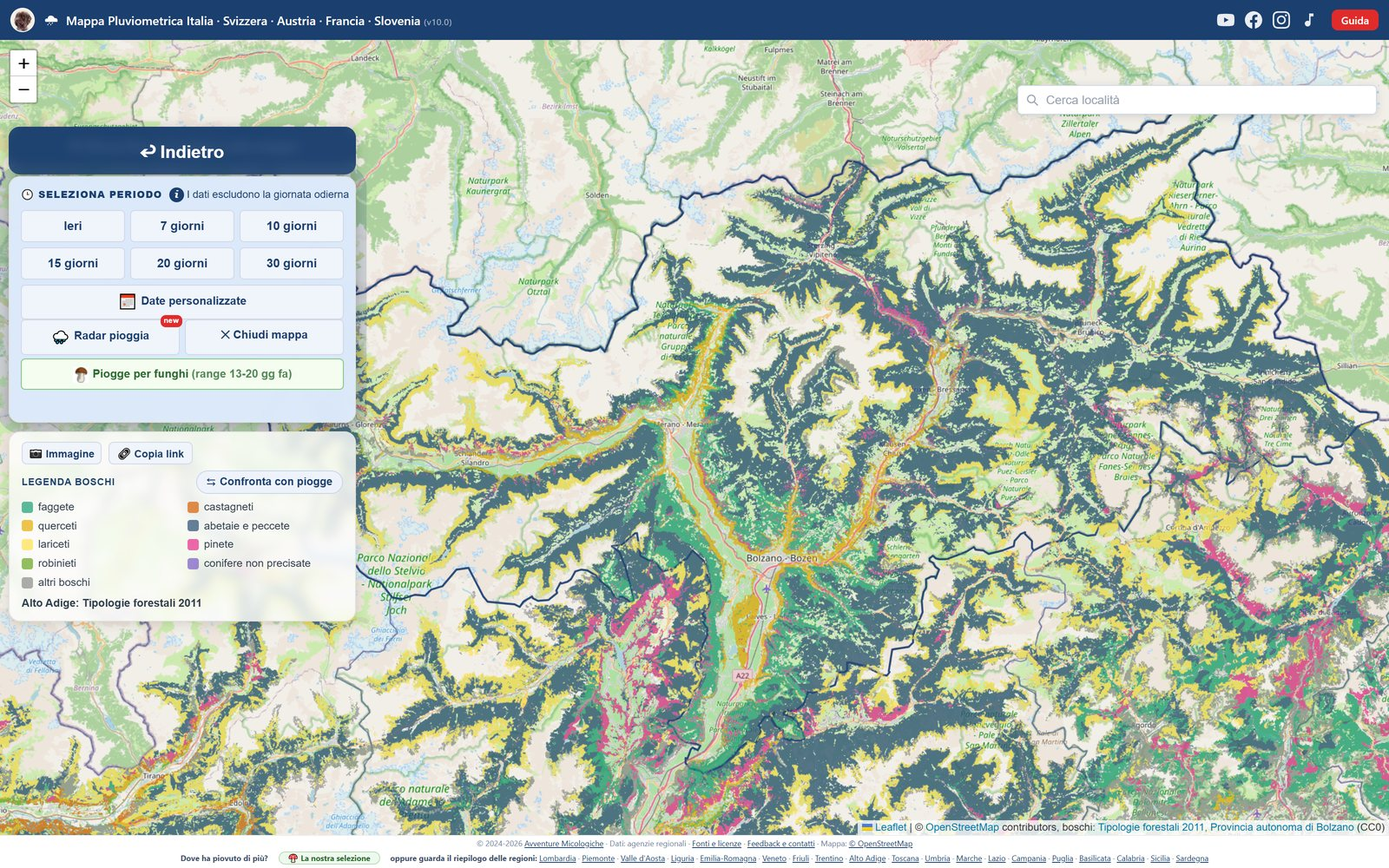
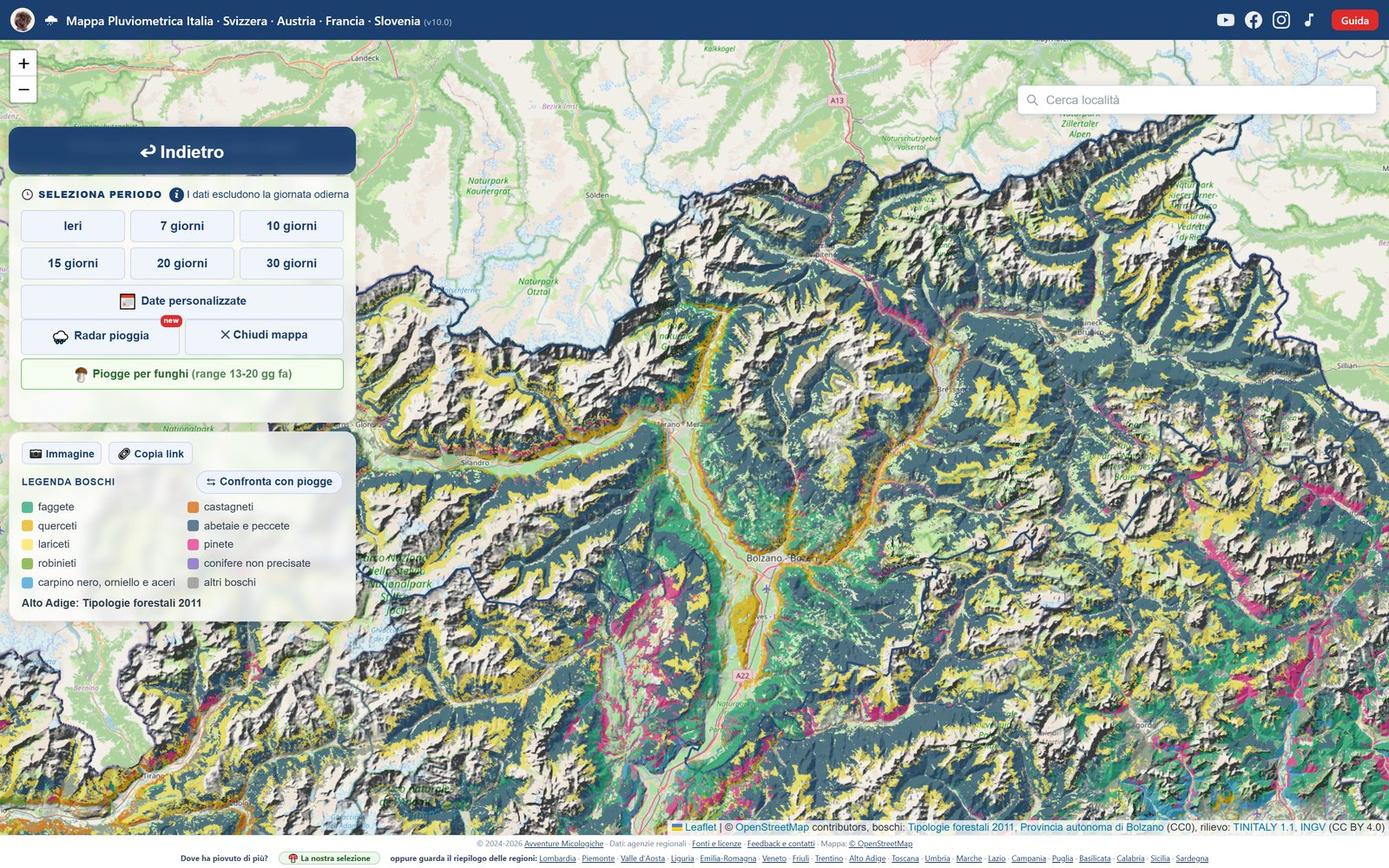
Mappa boschi: rilievo con la luce da nord-ovest, nuvoletta, guida e anteprime
- tessere del rilievo 4f1c4bea7 (luce da nord-ovest vera)
- nuvoletta sempre dentro lo schermo, riga Pendenza sopra il commento
- rilievo solo coi boschi, tagliato nella tendina; credito TINITALY
- guida: sezione boschi riscritta, immagini dopo il primo paragrafo,
  foto nuove (boschi, tendina, pioggia colorata, radar con pioggia)
- 21 anteprime boschi delle pagine funghi rifatte col rilievo

diff --git a/guida/index.html b/guida/index.html
@@ -259,7 +259,7 @@ td:first-child{font-weight:600;color:#2c3e54;white-space:nowrap}
   <div class="tit"><span class="tag">NOVITÀ</span><b>Ultimi aggiornamenti</b>
     <span class="quando">24 settembre 2026</span></div>
   <ul>
-    <li><span class="data">24 set</span><span><a href="#boschi">Il rilievo nella mappa boschi</a>: monti e valli in ombra sotto i colori, e toccando un punto leggi quota, versante e pendenza.</span></li>
+    <li><span class="data">24 set</span><span><a href="#boschi">Tocca un punto nella mappa boschi</a>: che bosco c'è, quota, versante e pendenza, e lo apri su Google Maps. E sotto i colori, il rilievo di monti e valli.</span></li>
     <li><span class="data">19 set</span><span><a href="#boschi">La mappa boschi in tutta Italia</a>: ventuno regioni, e un tocco su un punto ti dice che bosco è.</span></li>
     <li><span class="data">19 set</span><span><a href="#boschi">Confronta pioggia e boschi</a>: trascini la barra, a sinistra dove ha piovuto e a destra che bosco c'è.</span></li>
     <li><span class="data">18 set</span><span><a href="#boschi">La mappa boschi al Sud</a>: da oggi anche in Abruzzo, Puglia, Basilicata e Sicilia, tredici regioni in tutto.</span></li>
@@ -286,6 +286,12 @@ td:first-child{font-weight:600;color:#2c3e54;white-space:nowrap}
 
 <h2 id="cose"><span class="n">2</span>Che cosa mostra il sito</h2>
 <p>Questo sito mostra <b>la pioggia già caduta</b>, misurata da oltre 5.700 pluviometri delle reti pubbliche di monitoraggio in Italia, Svizzera, Austria, Francia e Slovenia. Non è un sito di previsioni: non troverai che tempo farà domani, ma quanti millimetri sono caduti in un punto preciso nei giorni scorsi.</p>
+
+<figure class="media">
+  <img src="pioggia-colorata.jpg" alt="La mappa della pioggia degli ultimi 30 giorni su Piemonte, Lombardia e Veneto: colori dal blu al rosso e i pallini bianchi dei pluviometri" width="1000" height="560" loading="lazy">
+  <figcaption>Piemonte, Lombardia e Veneto, la pioggia degli ultimi 30 giorni: dal blu dove ne è caduta poca al rosso dove ne è caduta di più. Ogni pallino bianco è un pluviometro.</figcaption>
+</figure>
+
 <p>Un pluviometro è uno strumento a terra, di un'agenzia regionale o nazionale, che raccoglie la pioggia e la misura. Ogni pallino sulla mappa è uno di questi strumenti, e il numero che compare toccandolo è <b>la sua misura</b>. Le fonti, agenzia per agenzia, sono elencate in <a href="/fonti.html">Fonti e licenze</a>.</p>
 <p>Il sito è gratuito, senza pubblicità e senza registrazione.</p>
 
@@ -388,6 +394,11 @@ td:first-child{font-weight:600;color:#2c3e54;white-space:nowrap}
      temporale del 10 settembre, scattata a doppia densita' come le altre. -->
 <h3>⏱ L'intensità: in quante ore</h3>
 <p>Cinquanta millimetri in un pomeriggio e cinquanta distribuiti su sei giorni sono due storie diverse, e per il terreno la seconda è molto migliore. Dal 10 settembre 2026, per ogni giornata di pioggia, contiamo <b>le ore in cui ha piovuto</b> e <b>la punta caduta in un'ora</b>. Dividendo i millimetri per le ore si ottiene il ritmo, e lo traduciamo in una parola.</p>
+
+<figure class="stretta">
+  <img src="intensita.jpg" alt="La scheda del pluviometro di Platischis su sette giorni: sotto il grafico, 10 settembre, 143,7 mm in 19 ore, punta 30,3 mm in un'ora" width="592" height="726" loading="lazy">
+  <figcaption>Platischis, in Friuli: il 10 settembre 143,7 mm in 19 ore, con una punta di 30,3 mm in un'ora. La barra col bordo bianco è il giorno raccontato.</figcaption>
+</figure>
 <table>
 <thead><tr><th>Millimetri all'ora</th><th>Come la chiamiamo</th><th>Nel bosco</th></tr></thead>
 <tbody>
@@ -398,21 +409,12 @@ td:first-child{font-weight:600;color:#2c3e54;white-space:nowrap}
 </table>
 <p>Le due soglie sono quelle della convenzione meteorologica italiana.</p>
 <p><b>Dove la trovi.</b> Nella scheda del pluviometro, sotto il grafico della pioggia, c'è il giorno più piovoso del periodo con le sue ore e la sua punta. Tocca un'altra barra e la riga passa a quel giorno. Col periodo <span class="ui">Ieri</span> durata e punta stanno direttamente fra le righe in alto.</p>
-<figure class="stretta">
-  <img src="intensita.jpg" alt="La scheda del pluviometro di Platischis su sette giorni: sotto il grafico, 10 settembre, 143,7 mm in 19 ore, punta 30,3 mm in un'ora" width="592" height="726" loading="lazy">
-  <figcaption>Platischis, in Friuli: il 10 settembre 143,7 mm in 19 ore, con una punta di 30,3 mm in un'ora. La barra col bordo bianco è il giorno raccontato.</figcaption>
-</figure>
+
 <p>Le stesse due informazioni ci sono sotto il grafico delle <a href="/funghi/">pagine di paese</a>, e lì la giornata di pioggia più forte ha anche la parola: «Sono caduti in 19 ore, con una punta di 30,3 mm in un'ora: 7,6 mm all'ora, pioggia battente».</p>
 <p class="mini">Le ore le pubblicano Piemonte, Liguria, Lombardia, Friuli, le reti del centro-sud, Svizzera, Austria, Francia e Slovenia. Toscana, Emilia, Veneto, Trentino e Alto Adige danno solo il totale del giorno: lì la riga non compare.</p>
 
 <h3>🌡 La temperatura, minima e massima</h3>
 <p>È il secondo interruttore dopo la pioggia. Dopo una pioggia buona, quello che decide se e quando nasce qualcosa sono le notti: <b>minime che restano sopra i 10 gradi</b> tengono il bosco in moto, minime vicine allo zero lo fermano. In quota la stessa pioggia di agosto e quella di ottobre danno esiti diversi solo per questo. Il grafico della scheda mostra minima e massima giorno per giorno, e serve proprio a guardare l'andamento delle notti nei giorni dopo la pioggia.</p>
-
-<h3>💨 Il vento</h3>
-<p>Il vento asciuga. Una giornata ventosa dopo la pioggia toglie umidità alla lettiera molto più in fretta di una giornata ferma, e su un versante esposto la finestra utile si accorcia. Nel grafico c'è la <b>velocità media</b> del giorno, e nel dettaglio di ogni giornata anche la raffica. È anche il modo per riconoscere i giorni di burrasca in una serie.</p>
-
-<h3>💦 L'umidità dell'aria</h3>
-<p>Dice quanto il bosco sta restituendo l'acqua che ha preso. Dopo una pioggia, <b>giorni con umidità alta</b>, specie di notte, vogliono dire terreno che resta umido; aria secca e vento insieme sono la combinazione che asciuga tutto in due giorni. È l'umidità dell'aria misurata dalla stazione, non quella del terreno: quella nelle reti pubbliche non esiste, esistono solo modelli, e i modelli qui non li usiamo.</p>
 
 <figure class="tre">
   <div><img src="temperatura.jpg" alt="Il grafico della temperatura minima e massima, giorno per giorno" width="592" height="684" loading="lazy"><span>🌡 Temperatura</span></div>
@@ -421,6 +423,13 @@ td:first-child{font-weight:600;color:#2c3e54;white-space:nowrap}
   <figcaption>Le altre tre linguette dello stesso pluviometro, sugli stessi giorni. La temperatura ha due linee, massima e minima. Il vento ha la media giornaliera. L'umidità ha la massima, che è quasi sempre di notte, e la minima del pomeriggio.</figcaption>
 </figure>
 
+<h3>💨 Il vento</h3>
+<p>Il vento asciuga. Una giornata ventosa dopo la pioggia toglie umidità alla lettiera molto più in fretta di una giornata ferma, e su un versante esposto la finestra utile si accorcia. Nel grafico c'è la <b>velocità media</b> del giorno, e nel dettaglio di ogni giornata anche la raffica. È anche il modo per riconoscere i giorni di burrasca in una serie.</p>
+
+<h3>💦 L'umidità dell'aria</h3>
+<p>Dice quanto il bosco sta restituendo l'acqua che ha preso. Dopo una pioggia, <b>giorni con umidità alta</b>, specie di notte, vogliono dire terreno che resta umido; aria secca e vento insieme sono la combinazione che asciuga tutto in due giorni. È l'umidità dell'aria misurata dalla stazione, non quella del terreno: quella nelle reti pubbliche non esiste, esistono solo modelli, e i modelli qui non li usiamo.</p>
+
+
 <h3>⛰ La quota</h3>
 <p>Compare nella scheda perché cambia tutto il resto: la stessa perturbazione lascia numeri diversi a trecento e a milleduecento metri, e la temperatura scende con l'altezza. Quando il pluviometro più vicino al tuo bosco sta molto più in basso, i suoi millimetri sono di solito una <b>sottostima</b> di quello che ha preso il versante. Dove l'ente non dichiara la quota la deduciamo dalla posizione, e in quel caso il numero ha davanti una tilde, per esempio «~ 1.240 m slm».</p>
 
@@ -428,6 +437,11 @@ td:first-child{font-weight:600;color:#2c3e54;white-space:nowrap}
 
 <h3 id="scheda-paese">Che cosa trovi nella scheda del paese</h3>
 <p>È una pagina dedicata a quel pluviometro e al paese intorno, fatta per rispondere senza dover toccare niente. Dentro c'è:</p>
+
+<figure>
+  <img src="scheda-paese.jpg" alt="La parte alta di una pagina di paese: titolo, millimetri della finestra dei funghi e grafico degli ultimi venticinque giorni" width="1100" height="1132" loading="lazy">
+  <figcaption>La parte alta della scheda di Torriglia Garaventa. Sotto continua col ritratto dell'archivio e coi link ai posti vicini.</figcaption>
+</figure>
 <ul>
   <li><b>quanta acqua è caduta nella finestra dei funghi</b>, col numero grande e le due date esatte, più quando è caduta l'ultima pioggia forte;</li>
   <li><b>il grafico degli ultimi venticinque giorni</b>, con gli otto giorni della finestra in scuro e gli altri in chiaro: si vede a colpo d'occhio se la pioggia è arrivata al momento giusto o troppo tardi;</li>
@@ -438,59 +452,65 @@ td:first-child{font-weight:600;color:#2c3e54;white-space:nowrap}
   <li>i link <b>alla zona</b> che lo contiene e a tutte le altre località della regione.</li>
 </ul>
 
-<figure>
-  <img src="scheda-paese.jpg" alt="La parte alta di una pagina di paese: titolo, millimetri della finestra dei funghi e grafico degli ultimi venticinque giorni" width="1100" height="1132" loading="lazy">
-  <figcaption>La parte alta della scheda di Torriglia Garaventa. Sotto continua col ritratto dell'archivio e coi link ai posti vicini.</figcaption>
-</figure>
 
 <h2 id="radar"><span class="n">10</span>La diretta radar</h2>
 <p>Il tasto <span class="ui">Radar pioggia</span> cambia modo: la sfumatura dei cumulati si spegne, i pallini spariscono, restano i confini e compare <b>la pioggia in corso adesso</b>. Tre tasti e una linea del tempo: <span class="ui">Adesso</span>, <span class="ui">▶ -2 ore</span> per rivedere da dove è arrivata, <span class="ui">+40 min</span> per i quaranta minuti seguenti. Si esce col tasto, o semplicemente scegliendo un periodo.</p>
 
 <figure class="media">
-  <img src="radar.jpg" alt="Il pannello della diretta radar con i tasti Adesso, meno due ore e più quaranta minuti e la scala in millimetri all'ora" width="893" height="538" loading="lazy">
-  <figcaption>Il pannello del radar: i tre tasti, la scala in millimetri all'ora e l'ora dell'ultima immagine. In questo scatto, una sera di settembre, non stava piovendo.</figcaption>
+  <img src="radar.jpg" alt="La diretta radar: un fronte di pioggia sulle Alpi, forte in Tirolo e verso Salisburgo, più debole sull'Alto Adige e sul Friuli, col pannello dei tasti Adesso, meno due ore e più quaranta minuti" width="893" height="538" loading="lazy">
+  <figcaption>Un fronte sulle Alpi, il 24 settembre alle 18:30: giallo e arancio dove piove forte, in Tirolo e verso Salisburgo, azzurro sull'Alto Adige e sul Friuli. A sinistra i tre tasti e la scala in millimetri all'ora.</figcaption>
 </figure>
 
-<p>Due avvertenze oneste. La previsione a quaranta minuti <b>è una previsione</b>, dichiarata come tale, e non una misura. E il radar vede la pioggia dall'alto con una risoluzione di due chilometri: dice bene <i>dove</i> sta piovendo, mentre <i>quanto</i> è caduto resta il mestiere dei pluviometri, che restano la fonte di tutto il resto del sito.</p>
+<p>Il radar vede la pioggia dall'alto, a due chilometri di risoluzione: ti dice <i>dove</i> sta piovendo adesso e dove andrà nei prossimi quaranta minuti. <i>Quanto</i> è caduto lo misurano i pluviometri, come in tutto il resto del sito.</p>
 <p class="mini">La fonte è il composito radar europeo EUMETNET OPERA, 155 radar in 24 paesi, servito dal progetto aperto LibreWXR.</p>
 
 <h2 id="boschi"><span class="n">11</span>La mappa boschi</h2>
 <p>La pioggia dice <i>quando</i> andare, il bosco dice <i>dove</i>: faggete, castagneti, querceti e abetaie non danno gli stessi funghi. Il tasto <span class="ui">🌲 Mappa boschi</span>, accanto a quello del radar, cambia modo: la pioggia e i pallini spariscono, e <b>i boschi si colorano per tipo</b>, in dieci gruppi, sopra il rilievo di monti e valli.</p>
 
-<div class="bosco"><b>Vale solo per alcune regioni.</b> Per ora la mappa boschi c'è in ventuno: <b>Piemonte, Valle d'Aosta, Lombardia, Trentino, Alto Adige, Veneto, Friuli Venezia Giulia, Liguria, Emilia-Romagna, Lazio, Abruzzo, Puglia, Basilicata, Sicilia, Marche, Umbria, Molise, Campania, Calabria, Toscana e Sardegna</b>. In Basilicata la carta è meno dettagliata: si vedono le macchie di bosco, non il singolo bosco. In Marche, Umbria, Molise, Campania, Calabria, Toscana e Sardegna la fonte non è una carta forestale della Regione ma la <b>Carta della Natura di ISPRA</b>, che descrive gli habitat: i tipi di bosco ci sono tutti, raccolti negli stessi colori. In Toscana e Sardegna quella carta è a scala 1:50.000, quindi meno fine; se la Regione pubblicherà una carta forestale più dettagliata, la useremo. Nelle altre regioni, e all'estero, i colori non ci sono e la legenda lo dice: «carta non ancora disponibile». Non riempiamo i vuoti con carte approssimative: una regione entra quando c'è una carta dei tipi di bosco abbastanza precisa.</div>
-
 <figure class="media">
   <img src="boschi.jpg" alt="La mappa boschi in Val d'Aveto, fra Liguria ed Emilia: faggete in verde, castagneti in arancio, querceti in ocra sopra il rilievo, col pannello della legenda" width="1000" height="702" loading="lazy">
-  <figcaption>La Val d'Aveto, a cavallo fra Liguria ed Emilia: faggete in verde, castagneti in arancio, querceti in ocra, e sotto i colori il rilievo delle valli. Sotto la legenda, le due carte usate. Al confine fra le due regioni le carte si uniscono senza stacchi.</figcaption>
+  <figcaption>La Val d'Aveto, a cavallo fra Liguria ed Emilia: faggete in verde, castagneti in arancio, querceti in ocra, e sotto i colori il rilievo delle valli. Sotto la legenda, le due carte usate.</figcaption>
 </figure>
 
-<h3>Come si usa</h3>
-<p>Scegli la regione e tocca il tasto: la mappa inquadra la regione. <b>Se prima hai cercato un paese, si apre sul paese</b>, abbastanza vicina da leggere i versanti. Da lontano i boschi sono una macchia unica: ingrandisci sulla valle che ti interessa. Si esce col tasto stesso, che nel frattempo è diventato <span class="ui">✕ Chiudi mappa</span>, con <span class="ui">↩ Indietro</span>, oppure scegliendo un periodo.</p>
-<p>Anche le pagine di paese e di zona delle regioni coperte hanno il tasto <span class="ui">Guarda i boschi</span>, che apre la mappa boschi già centrata su quel posto.</p>
+<div class="bosco"><b>Dove c'è.</b> La mappa boschi copre ventuno regioni: <b>Piemonte, Valle d'Aosta, Lombardia, Trentino, Alto Adige, Veneto, Friuli Venezia Giulia, Liguria, Emilia-Romagna, Lazio, Abruzzo, Puglia, Basilicata, Sicilia, Marche, Umbria, Molise, Campania, Calabria, Toscana e Sardegna</b>. Le carte usate, regione per regione, sono in <a href="/fonti.html">Fonti e licenze</a>.</div>
 
-<figure class="stretta">
-  <img src="boschi-telefono.jpg" alt="La mappa boschi dal telefono intorno a Borzonasca, col segnaposto rosso, il rilievo sotto i colori e sotto la legenda dei dieci gruppi" width="786" height="1404" loading="lazy">
-  <figcaption>Dal telefono, intorno a Borzonasca: castagneti in arancio sui versanti, faggete in verde più in là, e il rilievo che fa leggere le valli. Sotto la legenda e il nome della carta.</figcaption>
-</figure>
-
-<h3>Toccando un punto</h3>
-<p>Tocca un punto qualsiasi della mappa: si apre una nuvoletta che ti dice <b>che bosco c'è</b> e tre cose sul terreno.</p>
-<ul>
-  <li><b>Quota</b>: i metri sul livello del mare di quel punto.</li>
-  <li><b>Versante</b>: da che parte guarda il pendio, in otto direzioni, per esempio «a sud-est». Sotto, una riga dice cosa vuol dire per l'umidità: un versante a nord tiene l'umido, uno a sud prende il sole e asciuga prima.</li>
-  <li><b>Pendenza</b>: quanto è ripido, in gradi. 0° è il piano; sotto i 6° la nuvoletta scrive «pianeggiante».</li>
-</ul>
-<p>Versante e pendenza non sono quelli del punto esatto sotto il dito, che può cadere su un masso o in una buca: sono quelli del fianco della valle intorno, misurati su 250 metri per parte. Per chi cerca funghi conta quello.</p>
-<p>In fondo c'è il tasto <span class="ui">Apri su Google Maps</span>: apre quel punto su Google Maps, dove puoi salvarlo, guardarlo dal satellite o farti portare. La strada non te la diamo noi: il punto che hai toccato può essere un dirupo, e come arrivarci lo decidi tu.</p>
+<h3>Tocca un punto: bosco, quota, versante, pendenza</h3>
+<p>Tocca un punto qualsiasi della mappa: si apre una nuvoletta con tutto quello che serve per decidere se quel posto vale il giro.</p>
 
 <figure class="stretta">
   <img src="boschi-nuvoletta.jpg" alt="La nuvoletta aperta toccando un castagneto vicino a Borzonasca: quota 208 metri, versante a sud-est, pendenza 28 gradi, sole del mattino, e il tasto Apri su Google Maps" width="786" height="744" loading="lazy">
   <figcaption>Un tocco su un castagneto vicino a Borzonasca: 208 metri, versante a sud-est con 28° di pendenza, cioè sole del mattino e terreno che asciuga. Sotto, il tasto per aprire il punto su Google Maps.</figcaption>
 </figure>
+<div class="bosco">
+<p><b>Che bosco c'è</b>: faggeta, castagneto, abetaia, col colore della legenda.</p>
+<p><b>Quota</b>: i metri sul livello del mare.</p>
+<p><b>Versante</b>: da che parte guarda il pendio, per esempio «a sud-est», e sotto cosa vuol dire: un versante a nord tiene l'umido, uno a sud prende il sole e asciuga prima.</p>
+<p><b>Pendenza</b>: quanto è ripido, in gradi; sotto i 6° la nuvoletta scrive «pianeggiante».</p>
+<p><b>Apri su Google Maps</b>: il punto su Google Maps, da salvare, guardare dal satellite o per farti portare.</p>
+</div>
+<p>Versante e pendenza sono quelli del fianco della valle intorno al punto, misurati su 250 metri per parte.</p>
+
+
+<h3>Come si usa</h3>
+<p>Scegli la regione e tocca il tasto: la mappa inquadra la regione. <b>Se prima hai cercato un paese, si apre sul paese</b>, abbastanza vicina da leggere i versanti. Da lontano i boschi sono una macchia unica: ingrandisci sulla valle che ti interessa. Si esce col tasto stesso, che nel frattempo è diventato <span class="ui">✕ Chiudi mappa</span>, con <span class="ui">↩ Indietro</span>, oppure scegliendo un periodo.</p>
+
+<figure class="stretta">
+  <img src="boschi-telefono.jpg" alt="La mappa boschi dal telefono intorno a Borzonasca, col segnaposto rosso, il rilievo sotto i colori e sotto la legenda dei dieci gruppi" width="786" height="1404" loading="lazy">
+  <figcaption>Dal telefono, intorno a Borzonasca: castagneti in arancio sui versanti, faggete in verde più in là, e il rilievo che fa leggere le valli. Sotto la legenda e il nome della carta.</figcaption>
+</figure>
+<p>Anche le pagine di paese e di zona delle regioni coperte hanno il tasto <span class="ui">Guarda i boschi</span>, che apre la mappa boschi già centrata su quel posto.</p>
+
+
 
 <h3>Confrontare pioggia e boschi</h3>
 <p>Con un periodo di pioggia già scelto, tocca <span class="ui">⇆ Confronta con piogge</span>: compare una barra da trascinare. A sinistra vedi dove ha piovuto, a destra che bosco c'è, e muovendo la barra li confronti sullo stesso posto.</p>
 
+<figure class="media">
+  <img src="boschi-tendina.jpg" alt="La barra del confronto: a sinistra la pioggia degli ultimi 30 giorni fra Liguria ed Emilia, a destra i boschi col rilievo intorno a Borgo Val di Taro" width="1000" height="640" loading="lazy">
+  <figcaption>Fra Liguria ed Emilia: a sinistra la pioggia degli ultimi 30 giorni, a destra i boschi intorno a Borgo Val di Taro. Trascinando la barra si passa dall'una agli altri.</figcaption>
+</figure>
+
+<h3>I colori</h3>
 <table>
 <thead><tr><th>Colore</th><th>Che cosa mette insieme</th></tr></thead>
 <tbody>
@@ -508,12 +528,7 @@ td:first-child{font-weight:600;color:#2c3e54;white-space:nowrap}
 </table>
 
 <h3>Il rilievo</h3>
-<p>Sotto i colori c'è il rilievo: le ombre dei monti, come se il sole arrivasse da nord-ovest. Viene da <b>TINITALY</b>, il modello del terreno d'Italia a 10 metri dell'INGV, lo stesso da cui ricaviamo quota, versante e pendenza. Da lontano le montagne sono un po' esagerate, apposta: senza, a quella distanza le ombre sparirebbero. Il rilievo c'è solo in Italia, perché il modello finisce al confine.</p>
-<p>Sulla mappa della pioggia invece non c'è, e non è una svista: le ombre sotto i colori della pioggia li farebbero sembrare più scuri, cioè più millimetri di quelli caduti davvero.</p>
-
-<h3>Quanto è precisa</h3>
-<p>I disegni sono quelli delle <b>carte forestali delle Regioni</b>, fatte sulle foto aeree con un dettaglio che arriva al singolo versante. Ogni Regione però usa le sue categorie, che abbiamo raggruppato noi nei dieci colori. Un colore dice un albero: «pinete» sono solo i boschi di pini, «abetaie e peccete» solo quelli di abeti e pecci. Dove la carta dice soltanto «conifere», senza la specie, il bosco va in «conifere non precisate»: sappiamo che sono conifere, non se sono abeti o pini, e non tiriamo a indovinare. Fanno eccezione le <b>riserve naturali biogenetiche dello Stato</b> nate per una specie, come Abetone, Vallombrosa e Camaldoli per l'abete bianco o Trenta Coste in Sila per il pino laricio: lì dentro usiamo la specie della riserva. E se conosci un bosco che sulla mappa ha il colore sbagliato, <a href="/fonti.html#feedback">scrivicelo</a>: le carte le correggiamo man mano, anche grazie alle vostre segnalazioni. Le carte poi non hanno tutte la stessa età: si va da quella del Veneto, aggiornata al 2005, a quella della Liguria, del 2025. Quale carta stai guardando lo dice la riga sotto la legenda, e l'elenco completo, con le licenze, sta in <a href="/fonti.html">Fonti e licenze</a>.</p>
-<p>Due avvertenze oneste. Il bosco della carta è quello di quando la carta è stata fatta: un taglio o un incendio recenti non ci sono. E la carta dice <b>che bosco c'è, non se ci sono i funghi</b>: per quello servono la pioggia al momento giusto, la temperatura e un giro a piedi.</p>
+<p>Sotto i colori c'è il rilievo: le ombre dei monti, come se il sole arrivasse da nord-ovest. Viene da <b>TINITALY</b>, il modello del terreno d'Italia a 10 metri dell'INGV, lo stesso da cui ricaviamo quota, versante e pendenza.</p>
 
 <h2 id="condividere"><span class="n">12</span>Condividere</h2>
 <p>In alto nel pannello della legenda ci sono due tasti. Da computer si chiamano <span class="ui">🔗 Copia link</span> e <span class="ui">📷 Immagine</span>, dal telefono <span class="ui">🔗 Invia link</span> e <span class="ui">📷 Invia foto</span>, perché lì passano dal menu di condivisione.</p>

diff --git a/fonti.html b/fonti.html
@@ -109,7 +109,7 @@ td a:hover{text-decoration:underline}
 <tr><td>Cartografia di base</td><td><a href="https://www.openstreetmap.org/copyright" target="_blank" rel="noopener">© OpenStreetMap contributors</a></td><td>ODbL</td></tr>
 <tr><td>Confini regionali</td><td><a href="https://github.com/openpolis/geojson-italy" target="_blank" rel="noopener">openpolis / geojson-italy</a> (da dati ISTAT)</td><td>dati aperti</td></tr>
 <tr><td>Confine del Ticino</td><td><a href="https://www.swisstopo.admin.ch" target="_blank" rel="noopener">swisstopo — swissBOUNDARIES3D</a></td><td>open government data</td></tr>
-<tr><td>Rilievo, quota, versante e pendenza</td><td><a href="https://doi.org/10.13127/tinitaly/1.1" target="_blank" rel="noopener">TINITALY 1.1</a>, modello altimetrico d'Italia a 10 metri: Tarquini S., Isola I., Favalli M., Battistini A., Dotta G. (2023), Istituto Nazionale di Geofisica e Vulcanologia (INGV)</td><td>CC BY 4.0. Serve alla «Mappa boschi»: l'ombreggiatura del rilievo e, toccando un punto, quota, versante e pendenza. Copre solo l'Italia; il rilievo è ricavato da noi dal modello, e ai livelli di zoom più lontani le quote sono esagerate perché si legga</td></tr>
+<tr><td>Rilievo, quota, versante e pendenza</td><td><a href="https://doi.org/10.13127/tinitaly/1.1" target="_blank" rel="noopener">TINITALY 1.1</a>, modello altimetrico d'Italia a 10 metri: Tarquini S., Isola I., Favalli M., Battistini A., Dotta G. (2023), Istituto Nazionale di Geofisica e Vulcanologia (INGV)</td><td>CC BY 4.0. Serve alla «Mappa boschi»: il rilievo e, toccando un punto, quota, versante e pendenza</td></tr>
 <tr><td>Libreria mappa</td><td><a href="https://leafletjs.com" target="_blank" rel="noopener">Leaflet</a></td><td>BSD-2</td></tr>
 <tr><td>Radar «Diretta radar»</td><td><a href="https://librewxr.net/" target="_blank" rel="noopener">LibreWXR</a>, che serve il composito radar europeo <a href="https://www.eumetnet.eu/" target="_blank" rel="noopener">EUMETNET OPERA</a> (155 radar, 24 paesi)</td><td>CC BY 4.0. Alimenta il tasto «Diretta radar»: la pioggia in corso, le ultime due ore e i quaranta minuti seguenti. È una misura radar a 2 km di risoluzione, quindi <b>non sostituisce i pluviometri</b>, che restano la fonte di tutto il resto del sito; la previsione a 40 minuti è dichiarata come tale e non è una misura</td></tr>
 <tr><td>Ricerca per località</td><td><a href="https://open-meteo.com/en/docs/geocoding-api" target="_blank" rel="noopener">Open-Meteo Geocoding API</a>, che pubblica i nomi di <a href="https://www.geonames.org/" target="_blank" rel="noopener">GeoNames</a></td><td>CC BY 4.0. È la casella «Cerca località»: l'elenco dei comuni italiani sta nel sito, mentre le frazioni e i posti di Svizzera, Austria, Slovenia e Francia si chiedono a loro. Serve a <b>trovare un posto sulla mappa</b>, non è una fonte di misure</td></tr>

diff --git a/index.html b/index.html
@@ -12257,7 +12257,7 @@ body.senza-pallini #map .leaflet-marker-pane .loc-pin svg{display:block}
      serve «immutable» per un anno. A ogni rigenerazione delle tessere:
      push forzato di la', poi QUI il codice nuovo (`git rev-parse HEAD`
      nel repo delle tessere). Le vecchie copie spariscono da sole. */
-  var TESSERE_COMMIT='9d951f089759525e5f6f6a5a8e7b19384fac9c17';
+  var TESSERE_COMMIT='4f1c4bea745030425cb6a0f45af1757bff05155b';
   var TESSERE='https://cdn.jsdelivr.net/gh/AvventureMicologiche/Mappa-Precipitazioni-Tessere@'+TESSERE_COMMIT+'/';
   var BASE=TESSERE+'boschi/', OPACITA=0.7;
   var RILIEVO=TESSERE+'rilievo/', TERRENO=TESSERE+'terreno/', Z_TERRENO=12;
